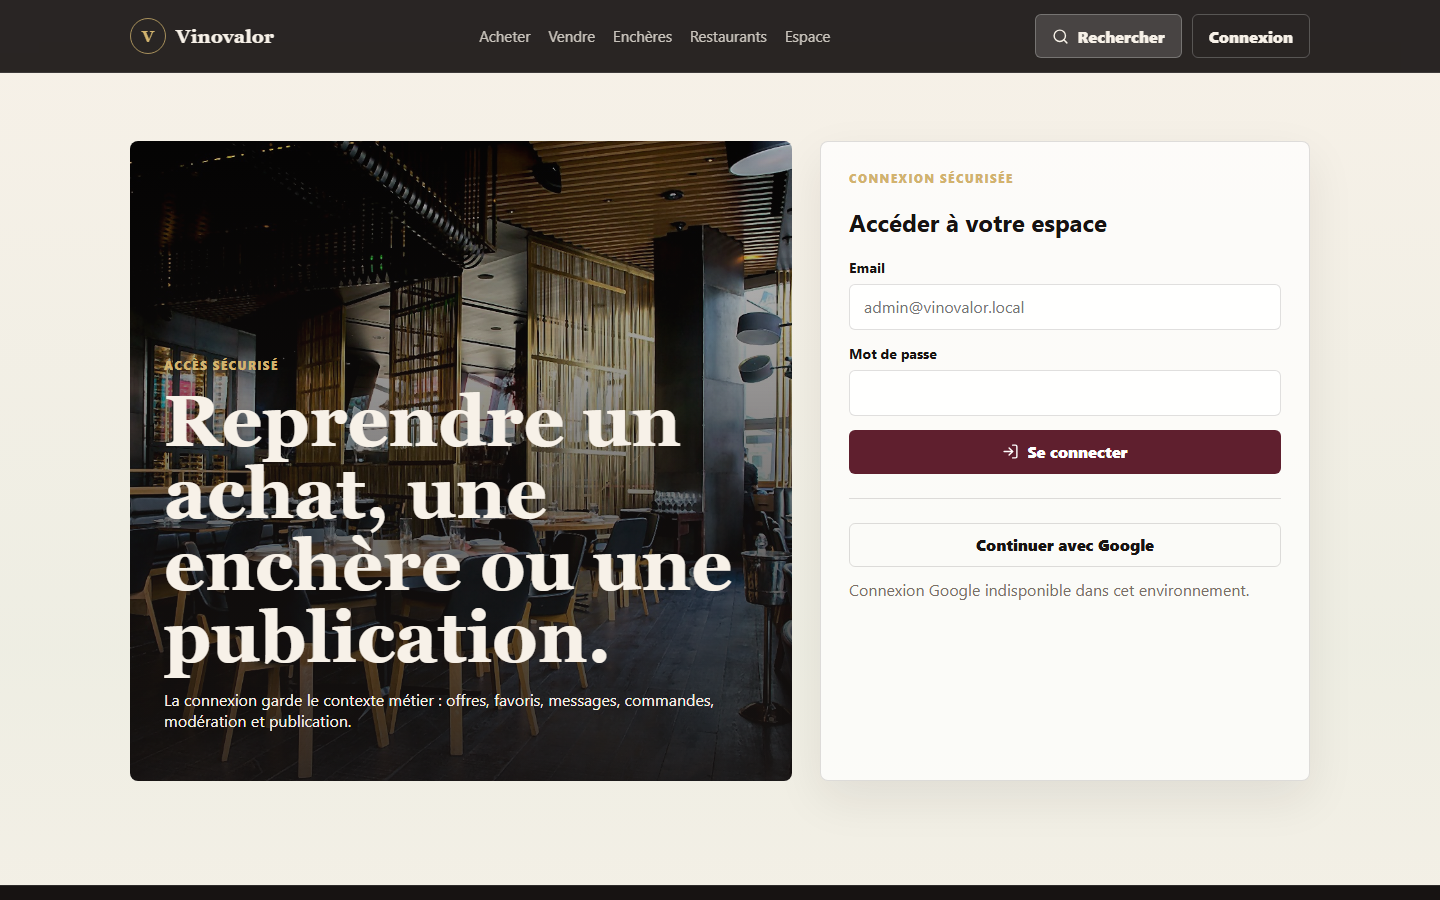
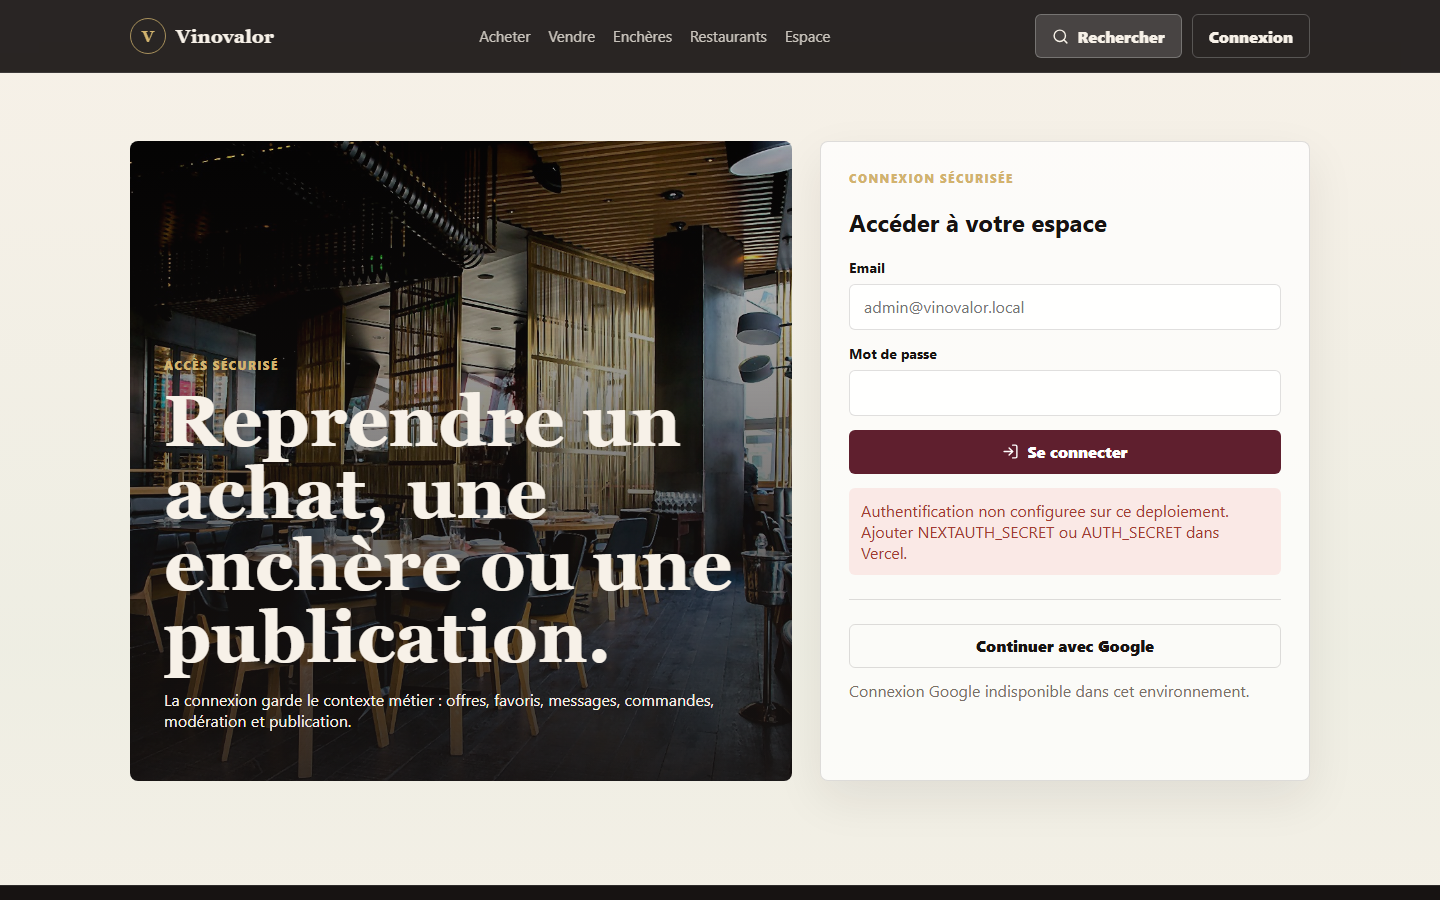
Handle missing auth secret gracefully

Changed region(s): [[0.5938, 0.56, 0.8438, 0.6222], [0.5938, 0.7156, 0.875, 0.7778], [0.5938, 0.6533, 0.875, 0.6844]]

diff --git a/src/app/api/auth/[...nextauth]/route.ts b/src/app/api/auth/[...nextauth]/route.ts
@@ -1,6 +1,30 @@
 import NextAuth from "next-auth";
-import { authOptions } from "@/lib/auth";
+import { NextRequest, NextResponse } from "next/server";
+import { authOptions, hasAuthSecret } from "@/lib/auth";
+import { securityHeaders } from "@/lib/security";
 
 const handler = NextAuth(authOptions);
 
-export { handler as GET, handler as POST };
+type AuthRouteContext = {
+  params: Promise<{ nextauth: string[] }>;
+};
+
+function authNotConfiguredResponse() {
+  return NextResponse.json(
+    {
+      code: "AUTH_NOT_CONFIGURED",
+      message: "Authentification serveur non configuree. Renseigner NEXTAUTH_SECRET ou AUTH_SECRET sur Vercel."
+    },
+    { status: 503, headers: securityHeaders() }
+  );
+}
+
+export function GET(request: NextRequest, context: AuthRouteContext) {
+  if (!hasAuthSecret()) return authNotConfiguredResponse();
+  return handler(request, context);
+}
+
+export function POST(request: NextRequest, context: AuthRouteContext) {
+  if (!hasAuthSecret()) return authNotConfiguredResponse();
+  return handler(request, context);
+}

diff --git a/src/components/AuthForm.tsx b/src/components/AuthForm.tsx
@@ -4,12 +4,17 @@ import { useState } from "react";
 import { signIn } from "next-auth/react";
 import { LogIn } from "lucide-react";
 
-export function AuthForm({ googleEnabled }: { googleEnabled: boolean }) {
+export function AuthForm({ authEnabled, googleEnabled }: { authEnabled: boolean; googleEnabled: boolean }) {
   const [message, setMessage] = useState<string | null>(null);
   const [pending, setPending] = useState(false);
 
   async function submit(event: React.FormEvent<HTMLFormElement>) {
     event.preventDefault();
+    if (!authEnabled) {
+      setMessage("Authentification non configuree sur ce deploiement. Ajouter NEXTAUTH_SECRET ou AUTH_SECRET dans Vercel.");
+      return;
+    }
+
     setPending(true);
     setMessage(null);
     const form = new FormData(event.currentTarget);
@@ -40,22 +45,27 @@ export function AuthForm({ googleEnabled }: { googleEnabled: boolean }) {
           <label htmlFor="password">Mot de passe</label>
           <input id="password" name="password" type="password" autoComplete="current-password" required />
         </div>
-        <button className="button" type="submit" disabled={pending} style={{ gridColumn: "1 / -1" }}>
+        <button className="button" type="submit" disabled={pending || !authEnabled} style={{ gridColumn: "1 / -1" }}>
           <LogIn size={17} aria-hidden="true" /> {pending ? "Connexion..." : "Se connecter"}
         </button>
       </form>
+      {!authEnabled ? (
+        <p className="form-message form-message--error">
+          Authentification non configuree sur ce deploiement. Ajouter NEXTAUTH_SECRET ou AUTH_SECRET dans Vercel.
+        </p>
+      ) : null}
       {message ? <p className="form-message form-message--error">{message}</p> : null}
       <hr style={{ margin: "24px 0", border: 0, borderTop: "1px solid var(--border)" }} />
       <button
         className="button button--ghost"
         type="button"
-        disabled={!googleEnabled}
+        disabled={!googleEnabled || !authEnabled}
         onClick={() => signIn("google", { callbackUrl: "/espace" })}
         style={{ width: "100%" }}
       >
         Continuer avec Google
       </button>
-      {!googleEnabled ? (
+      {!googleEnabled || !authEnabled ? (
         <p className="section__text">Connexion Google indisponible dans cet environnement.</p>
       ) : null}
     </div>

diff --git a/src/app/connexion/page.tsx b/src/app/connexion/page.tsx
@@ -1,5 +1,5 @@
 import { AuthForm } from "@/components/AuthForm";
-import { isGoogleAuthConfigured } from "@/lib/auth";
+import { hasAuthSecret, isGoogleAuthConfigured } from "@/lib/auth";
 
 export const metadata = {
   title: "Connexion"
@@ -18,7 +18,7 @@ export default function LoginPage() {
             </p>
           </div>
         </div>
-        <AuthForm googleEnabled={isGoogleAuthConfigured()} />
+          <AuthForm authEnabled={hasAuthSecret()} googleEnabled={isGoogleAuthConfigured()} />
       </div>
     </section>
   );

diff --git a/README.md b/README.md
@@ -99,9 +99,20 @@ Captures dans `qa/screenshots/` :
 4. Exécuter `npm run build`.
 5. Déployer sur Vercel.
 
+Variables minimales pour tester le compte administrateur sur Vercel :
+
+```text
+NEXTAUTH_URL=https://vinovalor-v2.vercel.app
+NEXTAUTH_SECRET=<valeur aleatoire forte, 32 caracteres minimum>
+```
+
+Ne pas mettre cette valeur dans Git. Elle doit rester uniquement dans les variables d'environnement Vercel.
+
 ## Incident Vercel corrigé
 
 Le déploiement `vinovalor-v2.vercel.app` a retourné une erreur serveur 500 au chargement public. Correctif appliqué : la lecture de session passe par `src/lib/session.ts`, qui échoue proprement en utilisateur non connecté si le secret NextAuth manque ou si NextAuth lève une exception. Les endpoints protégés retournent alors `401/403` au lieu de faire tomber la page publique.
+
+Deuxième correctif appliqué : les endpoints NextAuth retournent maintenant `503 AUTH_NOT_CONFIGURED` si le secret d'auth manque, et la page `/connexion` affiche une erreur française exploitable au lieu de l'écran anglais générique `Server error`.
 
 ## Git
 

diff --git a/docs/PRODUCTION_READINESS.md b/docs/PRODUCTION_READINESS.md
@@ -9,6 +9,7 @@
 - Secrets externalisés.
 - Auth locale + Google OAuth configurables.
 - Pages publiques résistantes si `NEXTAUTH_SECRET` / `AUTH_SECRET` manque ; les actions protégées restent fermées.
+- Page `/connexion` et endpoints NextAuth protégés contre l'erreur brute de configuration : retour `503 AUTH_NOT_CONFIGURED` si le secret serveur manque.
 - API route handlers disponibles.
 
 ## Non prêt pour production transactionnelle